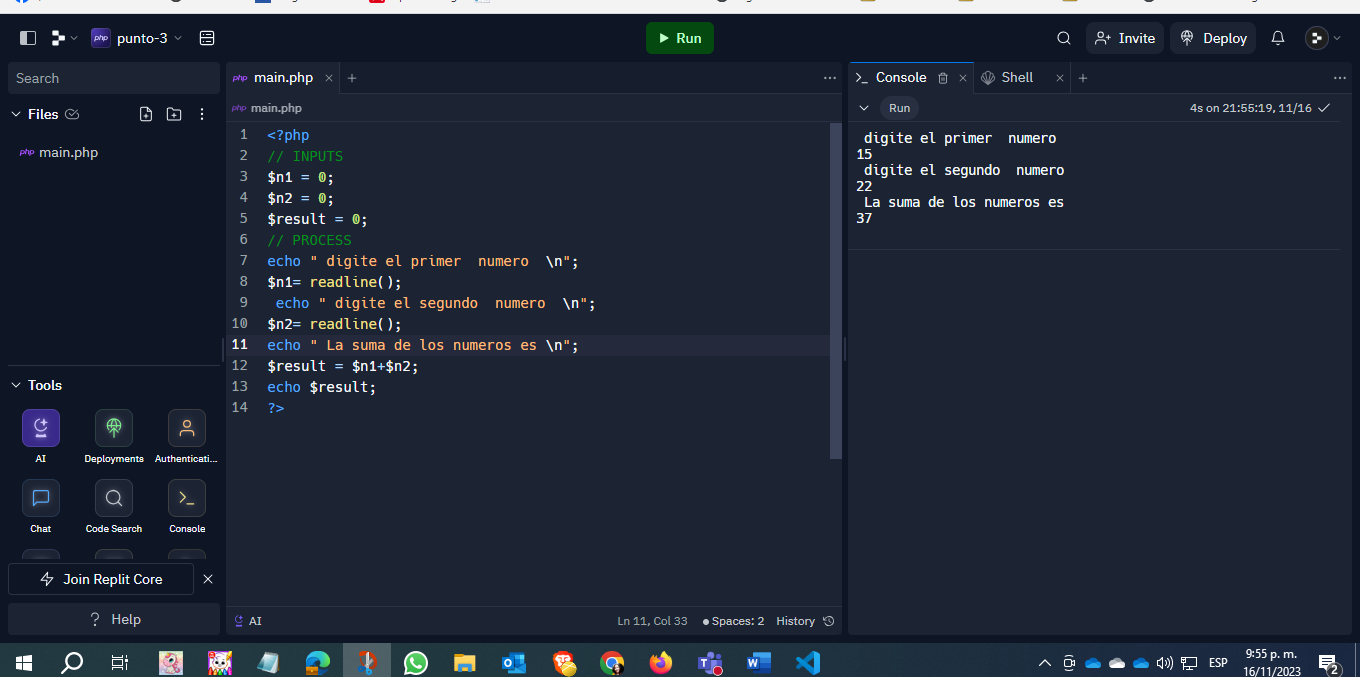
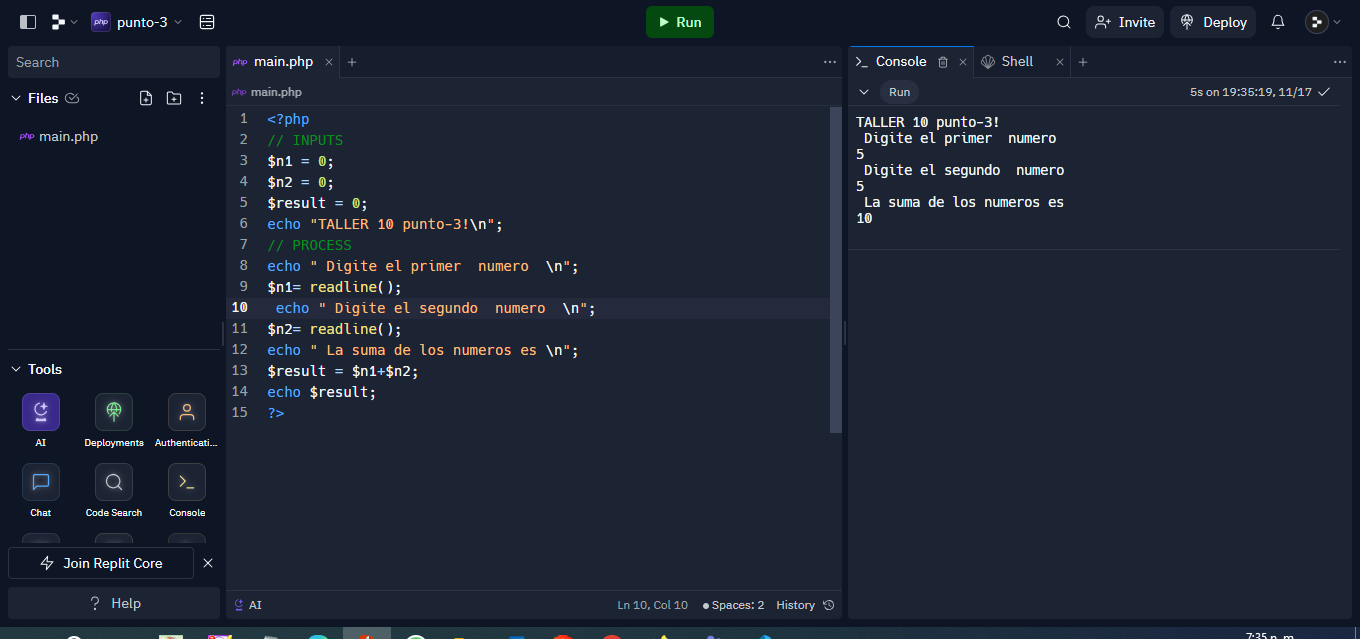
Act_Puntos

diff --git a/punto-5/index.php b/punto-5/index.php
@@ -4,6 +4,8 @@ $membershipType = "";
 $personNumber = 0;
 const TIQUET_PRICE= 25000;
 
+echo "TALLER 10 punto-5!\n";
+
 //PROCESO
 echo "Digite el numero de personas a entrar a la bolera \n";
 $personNumber = readline();
@@ -12,7 +14,7 @@ echo "Digite tipo de membresia \n";
 $membershipType = readline();
 
 $totalPrice = $personNumber * TIQUET_PRICE;
-if ((strtoupper($membershipType) == "A" ||strtoupper($membershipType) == "B")) {
+if ((strtoupper($membershipType) == "A" ||strtoupper($membershipType) == "B")) {// strtoupper Devuelve el string con todos los caracteres alfabéticos convertidos a mayúscula
    $totalPay= (TIQUET_PRICE * $personNumber) * 0.7;
      echo "Total a cancelar es $totalPay \n";
 }

diff --git a/punto-3/index.php b/punto-3/index.php
@@ -3,10 +3,11 @@
 $n1 = 0;
 $n2 = 0;
 $result = 0;
+echo "TALLER 10 punto-3!\n";
 // PROCESS
-echo " digite el primer  numero  \n";
+echo " Digite el primer  numero  \n";
 $n1= readline();
- echo " digite el segundo  numero  \n";
+ echo " Digite el segundo  numero  \n";
 $n2= readline();
 echo " La suma de los numeros es \n";
 $result = $n1+$n2;

diff --git a/punto-4/index.php b/punto-4/index.php
@@ -2,7 +2,7 @@
 // INPUTS
 $name = "";
 $lastName = "";
-
+echo "TALLER 10 punto-4!\n";
 // PROCESS
 echo "Digite su nombre  \n";
 $name= readline();
